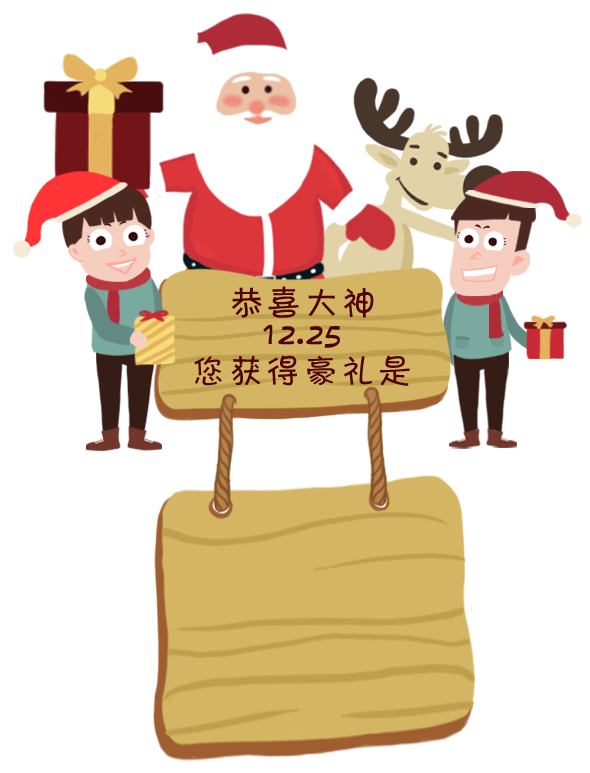
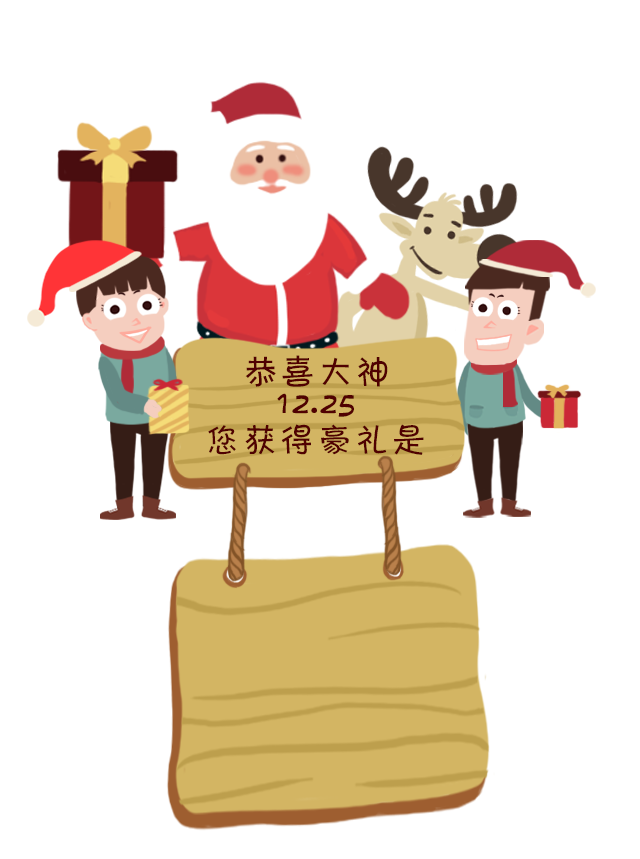
page4

diff --git a/chirstmas/css/style.css b/chirstmas/css/style.css
@@ -575,30 +575,14 @@ body {
 
 
 .page4.current .hd{
-	background:  url(../images/logo.png) no-repeat;
-	background-size: 111px 49px;
-	width: 111px;
-	height: 49px;
+	width: 100%;
 	position: absolute;
-	right: 10px;
-	top:25px;
+	top:0;
 }
 .page4.current .bd{
-	background:  url(../images/icon4-1.png) no-repeat;
-	background-size: 295px 387px;
-	width: 295px;
-	height: 387px;
+	width: 100%;
 	position: absolute;
-	top:37px;
-	left: 0;
-}
-.page4.current .bd{
-	background:  url(../images/icon4-1.png) no-repeat;
-	background-size: 295px 387px;
-	width: 295px;
-	height: 387px;
-	position: absolute;
-	top:37px;
+	top:0;
 	left: 0;
 }
 .page4.current .bd .flowers{
@@ -607,8 +591,10 @@ body {
 	width: 270px;
 	height: 258px;
 	position: absolute;
-	top:190px;
-	left:38px;
+	top:77%;
+	left:50%;
+	margin-left: -135px;
+	margin-top: -129px;
 }
 .page4.current .bd .goods{
 	background-image:  url(../images/goods/box.png);
@@ -616,8 +602,10 @@ body {
 	width: 148px;
 	height: 116px;
 	position: absolute;
-	left:86px;
-	top: 243px;
+	top:77%;
+	left:50%;
+	margin-left: -74px;
+	margin-top: -58px;
 }
 .page4.current .bd .goods.good1{
 	background-image:  url(../images/goods/50.png);
@@ -641,9 +629,10 @@ body {
 	width: 320px;
 	height: 130px;
 	position: absolute;
-	top:438px;
-	left: 0;
-	margin:0 20px;
+	top:90%;
+	left: 53%;
+	margin-left:-160px;
+	margin-top:-57px;
 }
 .page4.current .fd .txt{
 	background: url(../images/btn4.png) 0 0 no-repeat;
@@ -774,7 +763,7 @@ body {
 	z-index:30;
 	display:none
 }
-.page.page2,.page.page3{display: none;}
+.page.page2,.page.page3,.page.page4{display: none;}
 
 
 

diff --git a/chirstmas/index.html b/chirstmas/index.html
@@ -161,9 +161,12 @@
         </div>
         <div class="page page4">
         <div class="layer"></div>
-            <div class="content">
-                <div class="hd"></div>
+            <div class="content1">
+                <div class="hd">
+                     <img src="images/logo.png" />
+                </div>
                 <div class="bd">
+                    <img src="images/icon4-1.png" />
                     <div class="goods animated zoomIn"></div>
                     <div class="flowers animated infinite zoomIn delay05"></div>
                 </div>
@@ -231,16 +234,15 @@ window.onload = function(){
             }
 
             setTimeout(function(){
-                $(".goods .icon5").addClass("tada");
-                if($(".goods .icon5").hasClass("tada")){
-                    $('.page.page3').removeClass("current");
-                    $('.page.page4').addClass("current");
+                $(".goods .icon"+(index+1)).addClass("tada");
+                setTimeout(function(){
+                    if($(".goods .icon"+(index+1)).hasClass("tada")){
+                    $('.page.page3').hide().removeClass("current");
+                    $('.page.page4').show().addClass("current");
                 }
-                 $('.page.page3').removeClass("current");
-                 $('.page.page4').addClass("current");
+                },1000)
                 
-                
-            },100*num+1000);
+            },100*num+500);
             return false;
         });
 
